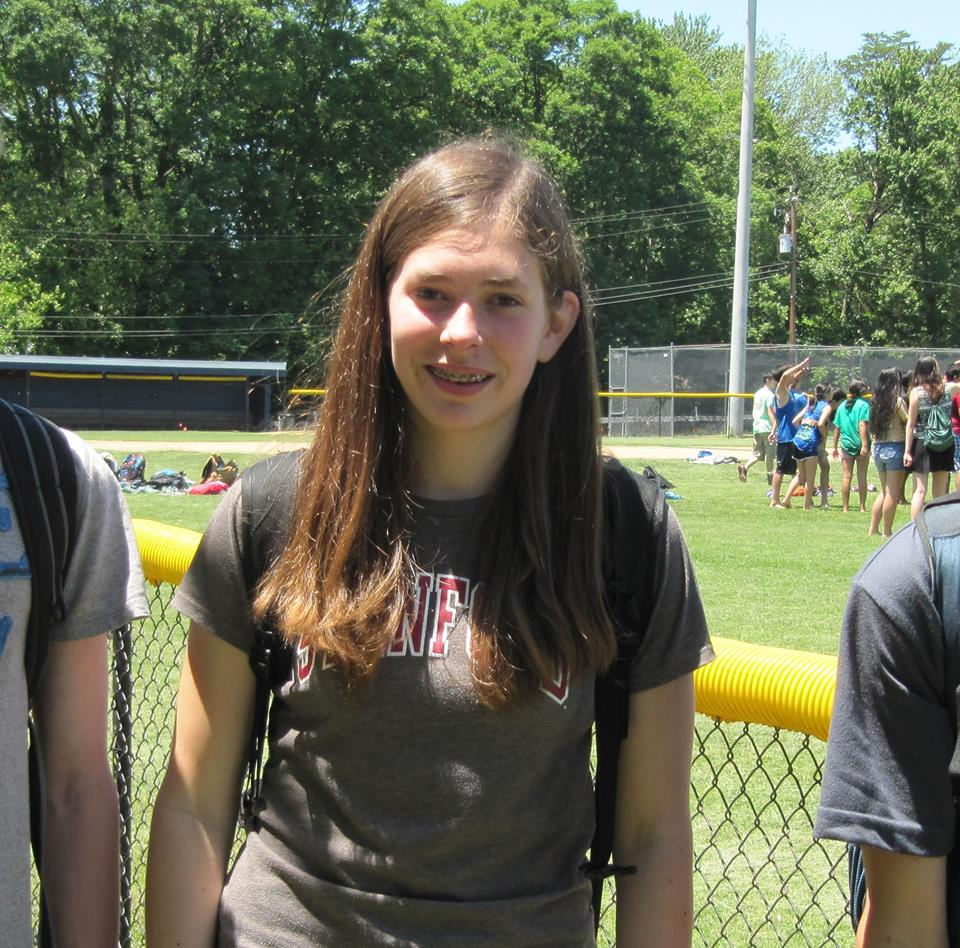
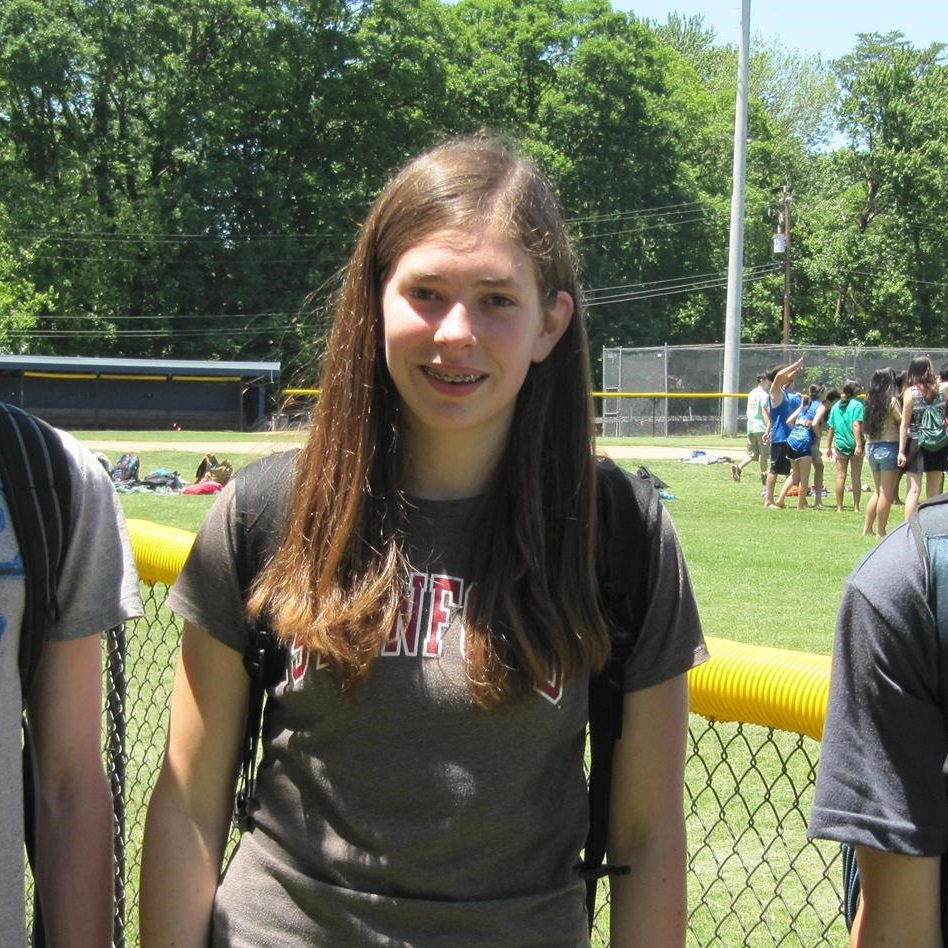
Add some officer pictures

diff --git a/index.html b/index.html
@@ -104,12 +104,12 @@
 						<div class="col-xs-6 officer">
 							<p class="lead">Eric Wang</p>
 							<h4>President</h4>
-							<img class="img-responsive img-circle" src="images/resize_square.jpg" alt="Eric Wang">
+							<img class="img-responsive img-circle" src="images/officers/eric.jpg" alt="Eric Wang">
 						</div>
 						<div class="col-xs-6 officer">
 							<p class="lead">Sam Kim</p>
 							<h4>Chief Lecturer</h4>
-							<img class="img-responsive img-circle" src="images/resize_square.jpg" alt="Sam Kim">
+							<img class="img-responsive img-circle" src="images/officers/samk.jpg" alt="Sam Kim">
 						</div>
 					</div>
 				</div>
@@ -118,12 +118,12 @@
 						<div class="col-xs-6 officer">
 							<p class="lead">Sam Damashek</p>
 							<h4>Lecturer</h4>
-							<img class="img-responsive img-circle" src="images/resize_square.jpg" alt="Sam Damashek">
+							<img class="img-responsive img-circle" src="images/officers/samd.jpg" alt="Sam Damashek">
 						</div>
 						<div class="col-xs-6 officer">
 							<p class="lead">Ashley Kim</p>
 							<h4>Treasurer</h4>
-							<img class="img-responsive img-circle" src="images/resize_square.jpg" alt="Ashley Kim">
+							<img class="img-responsive img-circle" src="images/officers/ashley.jpg" alt="Ashley Kim">
 						</div>
 					</div>
 				</div>
@@ -136,12 +136,12 @@
 						<div class="col-xs-6 officer">
 							<p class="lead">Joseph Chen</p>
 							<h4>Lecturer</h4>
-							<img class="img-responsive img-circle" src="images/resize_square.jpg" alt="Joseph Chen">
+							<img class="img-responsive img-circle" src="images/officers/joseph.jpg" alt="Joseph Chen">
 						</div>
 						<div class="col-xs-6 officer">
 							<p class="lead">Jonathan Lee</p>
 							<h4>Lecturer</h4>
-							<img class="img-responsive img-circle" src="images/resize_square.jpg" alt="Jonathan Lee">
+							<img class="img-responsive img-circle" src="images/officers/jonathan.jpg" alt="Jonathan Lee">
 						</div>
 					</div>
 				</div>
@@ -172,12 +172,13 @@
 					<p class="lead description">
 						Capture the Flag (CTF) is a type of game that tests our skills as hackers, programmers, and mathematicians.
 						Last year, we hosted TJCTF for all US high school students, and this year we're starting with introCTF: a CTF featuring introductory concepts with easy to very difficult problems.
-						<br><br>
-						<a class="btn btn-primary btn-outline btn-lg" href="//introctf.herokuapp.com" target="_blank">introCTF</a>
-						<a class="btn btn-primary btn-outline btn-lg" href="//tjctf.org" target="_blank">TJCTF</a>
-						<a class="btn btn-primary btn-outline btn-lg" href="//picoctf.org" target="_blank">picoCTF</a>
-						<a class="btn btn-primary btn-outline btn-lg" href="//hsctf.com" target="_blank">HSCTF</a>
 					</p>
+						<a style="margin-bottom:5px;" class="btn-fw btn btn-primary btn-outline btn-lg" href="//introctf.herokuapp.com" target="_blank">introCTF</a>
+						<a style="margin-bottom:5px;" class="btn-fw btn btn-primary btn-outline btn-lg" href="//tjctf.org" target="_blank">TJCTF</a>
+						<br/>
+						<a class="btn-fw btn btn-primary btn-outline btn-lg" href="//picoctf.org" target="_blank">picoCTF</a>
+						<a class="btn-fw btn btn-primary btn-outline btn-lg" href="//hsctf.com" target="_blank">HSCTF</a>
+						<br /><br />
 				</div>
 				<div class="col-md-5 col-md-pull-7">
 					<img class="featurette-image img-responsive" src="/images/native.png" alt="ctf"/>
@@ -189,16 +190,14 @@
 	<div>
 		<div class="container">
 			<div class="row">
-				<div class="col-md-7">
-					<h2 class="featurette-heading">Extra Information</h2>
+					<h2 class="featurette-heading" style="margin-top:0;">Extra Information</h2>
 					<p class="lead">
-					<a href="//lists.tjhsst.edu/listinfo/csc" class="btn btn-primary btn-outline btn-lg">
-						Join our mailing list
-					</a>
+						Join our mailing list to receiving club announcements:
+						<br /><br />
+						<a href="//lists.tjhsst.edu/listinfo/csc" class="btn btn-primary btn-outline btn-lg">
+							Mailing list
+						</a>
 					</p>
-				</div>
-				<div class="col-md-5">
-					<img class="featurette-image img-responsive" src="/images/native.png" alt="idek" />
 				</div>
 			</div>
 		</div>

diff --git a/css/main.css b/css/main.css
@@ -17,6 +17,9 @@ h2.featurette-heading {
 .container.start {
 	margin-top:30px;
 }
+a.btn-fw {
+	width:110px;
+}
 hr.featurette-divider {
 	margin-top:30px;
 	margin-bottom:30px;
